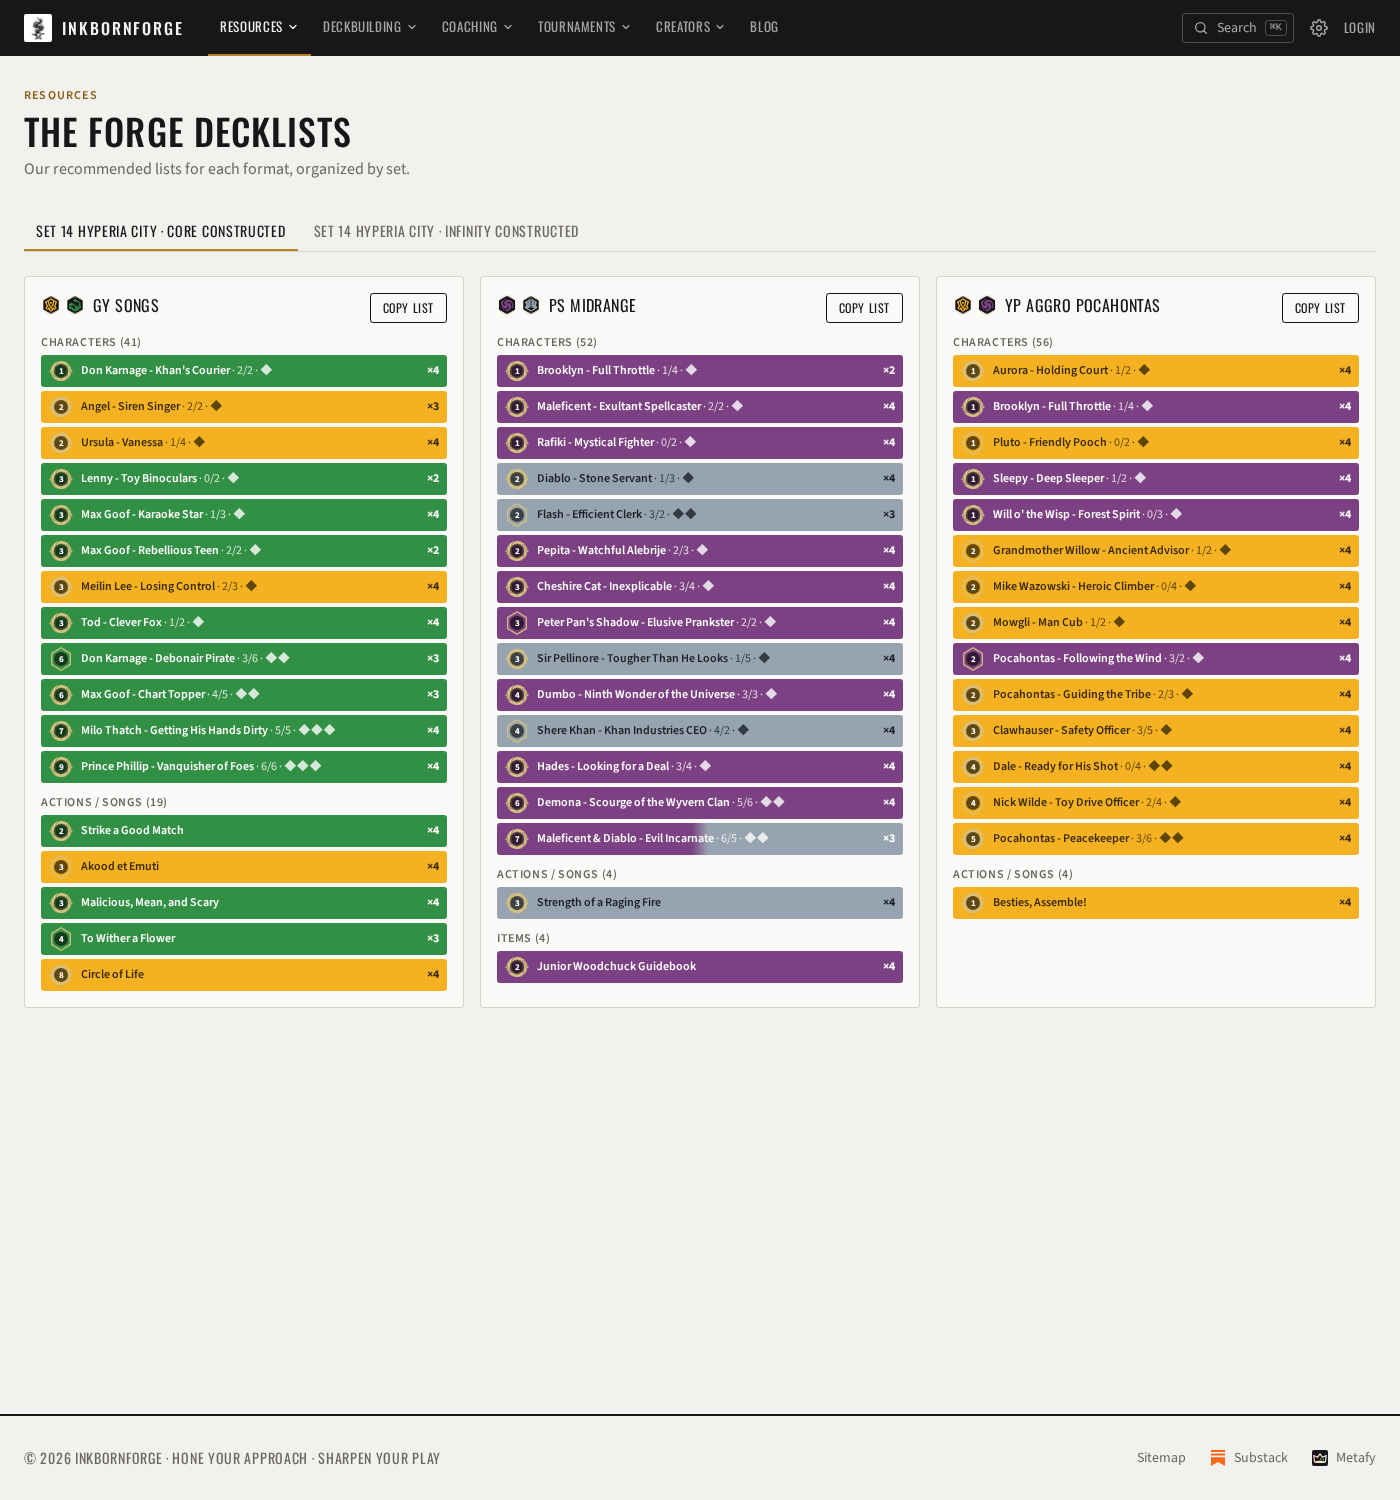
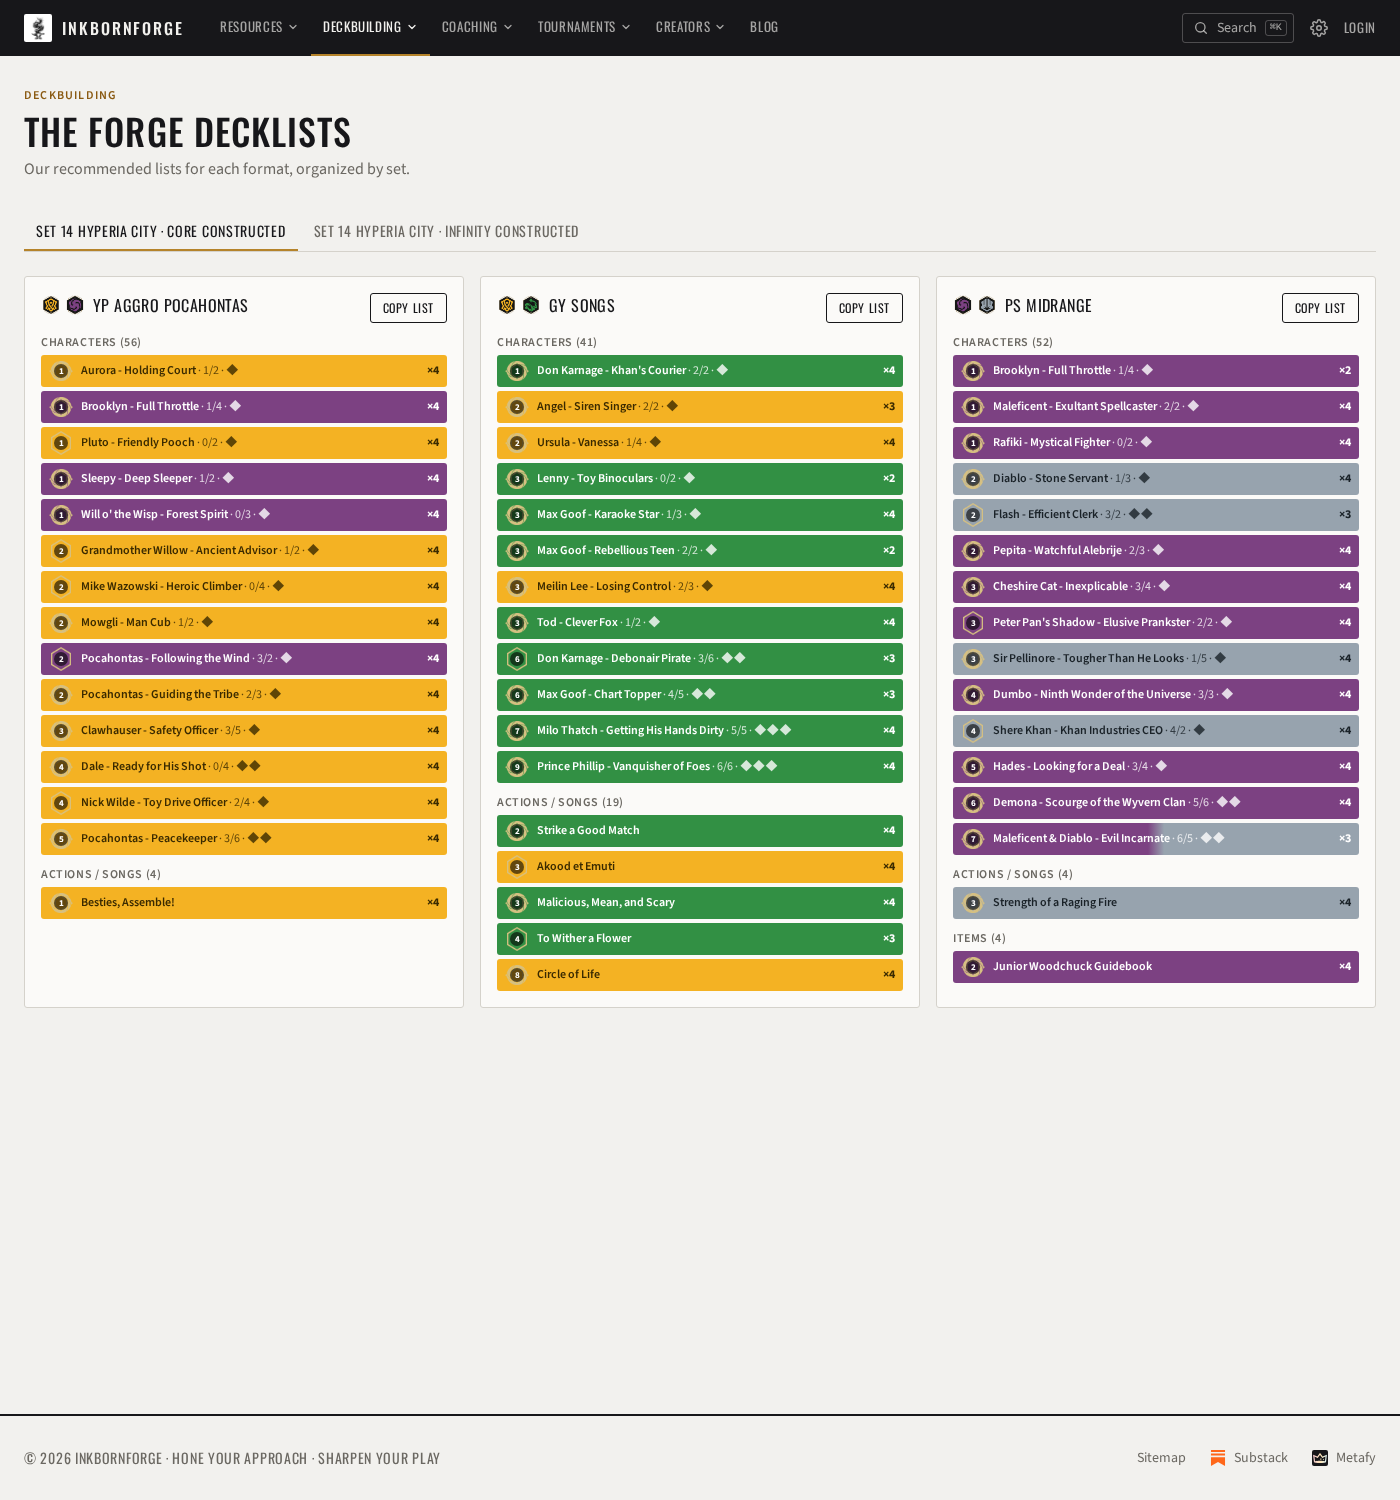
Sort deck lists alphabetically by ink pair
Claude-Session: https://claude.ai/code/session_011LPqTTKt9sshWg5cJPzBrz

diff --git a/src/lib/__tests__/stockDecks.test.js b/src/lib/__tests__/stockDecks.test.js
@@ -13,18 +13,19 @@ describe('buildStockDecks', () => {
       profile('a2', ['amber', 'emerald'], 'Circle of Life', 50, { '1-2': 4, '1-3': 2 }),
       profile('b1', ['amber', 'emerald'], 'Princess Aggro', 20, { '1-4': 4 }),
       profile('c1', ['amber', 'sapphire'], 'Control', 40, { '1-5': 4 }),
+      profile('d1', ['amethyst', 'amber'], 'Midrange', 10, { '1-7': 4 }),
       profile('x1', ['ruby', 'steel'], null, 999, { '1-6': 4 }),
     ],
   }
 
-  it('groups archetypes by ink pair, most played first, skipping unnamed profiles', () => {
+  it('groups archetypes by ink pair, pairs alphabetical, most played first within a pair, skipping unnamed profiles', () => {
     const pairs = buildStockDecks(stats)
-    expect(pairs.map(p => [p.key, p.gamesPlayed])).toEqual([['amber/emerald', 100], ['amber/sapphire', 40]])
-    expect(pairs[0].decks.map(d => d.name)).toEqual(['Circle of Life', 'Princess Aggro'])
+    expect(pairs.map(p => [p.key, p.gamesPlayed])).toEqual([['amber/amethyst', 10], ['amber/emerald', 100], ['amber/sapphire', 40]])
+    expect(pairs[1].decks.map(d => d.name)).toEqual(['Circle of Life', 'Princess Aggro'])
   })
 
   it("uses the most-played variant's centroid as the list", () => {
-    const deck = buildStockDecks(stats)[0].decks[0]
+    const deck = buildStockDecks(stats)[1].decks[0]
     expect(deck.cards).toEqual([{ cardId: '1-2', count: 4 }, { cardId: '1-3', count: 2 }])
     expect(deck.totalCards).toBe(6)
     expect(deck.gamesPlayed).toBe(80)

diff --git a/src/lib/__tests__/forgeDecks.test.js b/src/lib/__tests__/forgeDecks.test.js
@@ -1,5 +1,5 @@
 import { describe, it, expect } from 'vitest'
-import { parseForgeDeck } from '../forgeDecks'
+import { parseForgeDeck, forgeDecksFor } from '../forgeDecks'
 
 const PATH = '/content/forge-decks/set-14-core/amber-steel.txt'
 
@@ -29,5 +29,12 @@ describe('parseForgeDeck', () => {
     expect(() => parseForgeDeck(PATH, '---\ninks: amber\n---\n4 X\n')).toThrow('"name"')
     expect(() => parseForgeDeck(PATH, '---\nname: A\ninks: plaid\n---\n4 X\n')).toThrow('unknown inks')
     expect(() => parseForgeDeck(PATH, '---\nname: A\ninks: amber\n---\n')).toThrow('no "<count>')
+  })
+})
+
+describe('forgeDecksFor', () => {
+  it('lists a folder alphabetically by ink pair', () => {
+    const keys = forgeDecksFor('set-14-core').map(d => d.colors.join('/'))
+    expect(keys).toEqual([...keys].sort())
   })
 })

diff --git a/src/lib/stockDecks.js b/src/lib/stockDecks.js
@@ -13,7 +13,8 @@ export const STOCK_DECK_FOLDERS = [
 
 // One list per named archetype: the card centroid duels.ink computed for
 // its most-played build variant (`centroidCounts`, cardId → copies). Grouped
-// by ink pair; pairs and the archetypes within them sorted by games played.
+// by ink pair; pairs sorted alphabetically by ink (the canonical order), and
+// the archetypes within a pair by games played.
 export function buildStockDecks(stats) {
   const totalGames = stats.activity.totalGames
   const pairs = new Map()
@@ -39,5 +40,5 @@ export function buildStockDecks(stats) {
   const byGames = (a, b) => b.gamesPlayed - a.gamesPlayed
   return [...pairs.values()]
     .map(pair => ({ ...pair, decks: pair.decks.sort(byGames) }))
-    .sort(byGames)
+    .sort((a, b) => a.key.localeCompare(b.key))
 }

diff --git a/src/lib/forgeDecks.js b/src/lib/forgeDecks.js
@@ -43,5 +43,8 @@ const files = import.meta.glob('/content/forge-decks/*/*.txt', { eager: true, qu
 const FORGE_DECKS = Object.entries(files).map(([path, raw]) => parseForgeDeck(path, raw))
 
 export function forgeDecksFor(folderId) {
-  return FORGE_DECKS.filter(d => d.folderId === folderId)
+  // Ink pairs in alphabetical order (the canonical order), then by name.
+  return FORGE_DECKS
+    .filter(d => d.folderId === folderId)
+    .sort((a, b) => a.colors.join('/').localeCompare(b.colors.join('/')) || a.name.localeCompare(b.name))
 }
